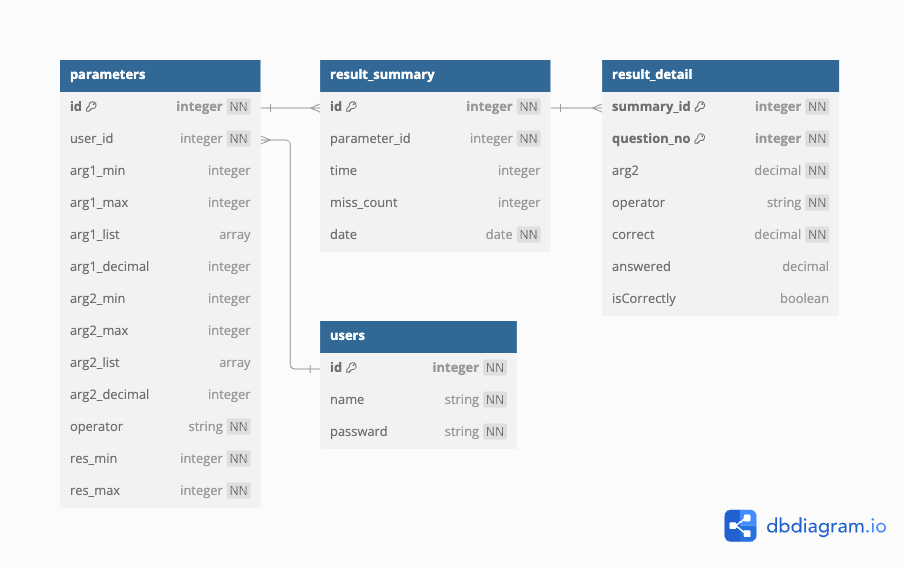
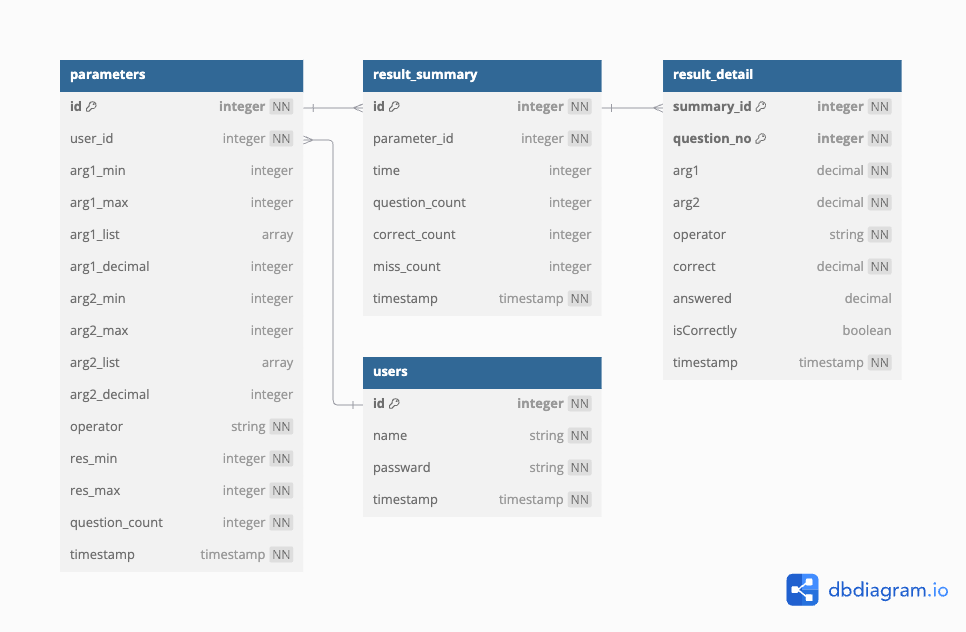
add; readme

diff --git a/README.md b/README.md
@@ -1,17 +1,58 @@
-# solo_keisan
+# けいさんアプリ
+こども向けの計算学習アプリの開発リポジトリです。
 
+# アプリ概要
+たし算・ひき算・かけ算を学習できます。
+計算で使う値の最小値・最大値や出題数などをパラメータ設定できる事が特徴です。
 
-▫ER図
+# 使用方法
+以下、ターミナルで実行してください。※他にもありそう。後で確認😳
+- バックエンド設定
+1. npm install
+2. psql postgres
+    create database keisan;
+3. npm run db:migrate
+4. npm run start
+5. .envファイルに環境変数入力
+- フロントエンド設定
+1. cd frontend
+2. npm install
+3. npm run dev
+ http://localhost:5173/ からアプリを開いてください。
+
+# データベース
+4つのデータテーブルを使用しています。
+- users: ユーザー管理
+- parameters： 計算で使うパラメータ管理
+- result_summary： 学習1回あたりの記録
+- result_detail： 学習詳細の記録
+
 ![image](./image/ER.png)
 
+# 使用技術
+<img src="https://img.shields.io/badge/-React-61DAFB.svg?logo=&style=for-the-badge">
+<img src="https://img.shields.io/badge/-Javascript-F7DF1E.svg?logo=&style=for-the-badge">
+<img src="https://img.shields.io/badge/-Vite-003791.svg?logo=&style=for-the-badge"> 
+<img src="https://img.shields.io/badge/-Postgresql-336791.svg?logo=&style=for-the-badge">
+<img src="https://img.shields.io/badge/-Knex-272822.svg?logo=&style=for-the-badge"> 
+<img src="https://img.shields.io/badge/-Express-003791.svg?logo=&style=for-the-badge"> 
 
-▫動作
+# 環境
+| 言語・フレームワーク       | バージョン   |
+|------------------|---------|
+| express          | 4.21.1  |
+| knex             | 3.1.0   |
+| dotenv           | 16.4.5  |
+| axios            | 1.7.7   |
+| React               | 18.3.1 |
 
-User: ユーザー登録、ログイン
-　→ TB「users」
+# 今後の予定
+- 小数点の計算を追加
+- わり算を追加
+- 過去問題の学習を追加
+- ミスした問題の再学習を追加
+- 結果分析グラフを追加
+- 学習によるポイント加算機能を追加
+- ユーザー登録・ログイン機能を追加
 
-User：パラメータ登録、選択
-　→ TB「parameters」
-
-User：テスト開始
-　→ TB「result_summary」「result_detail」
+20244/11/13
